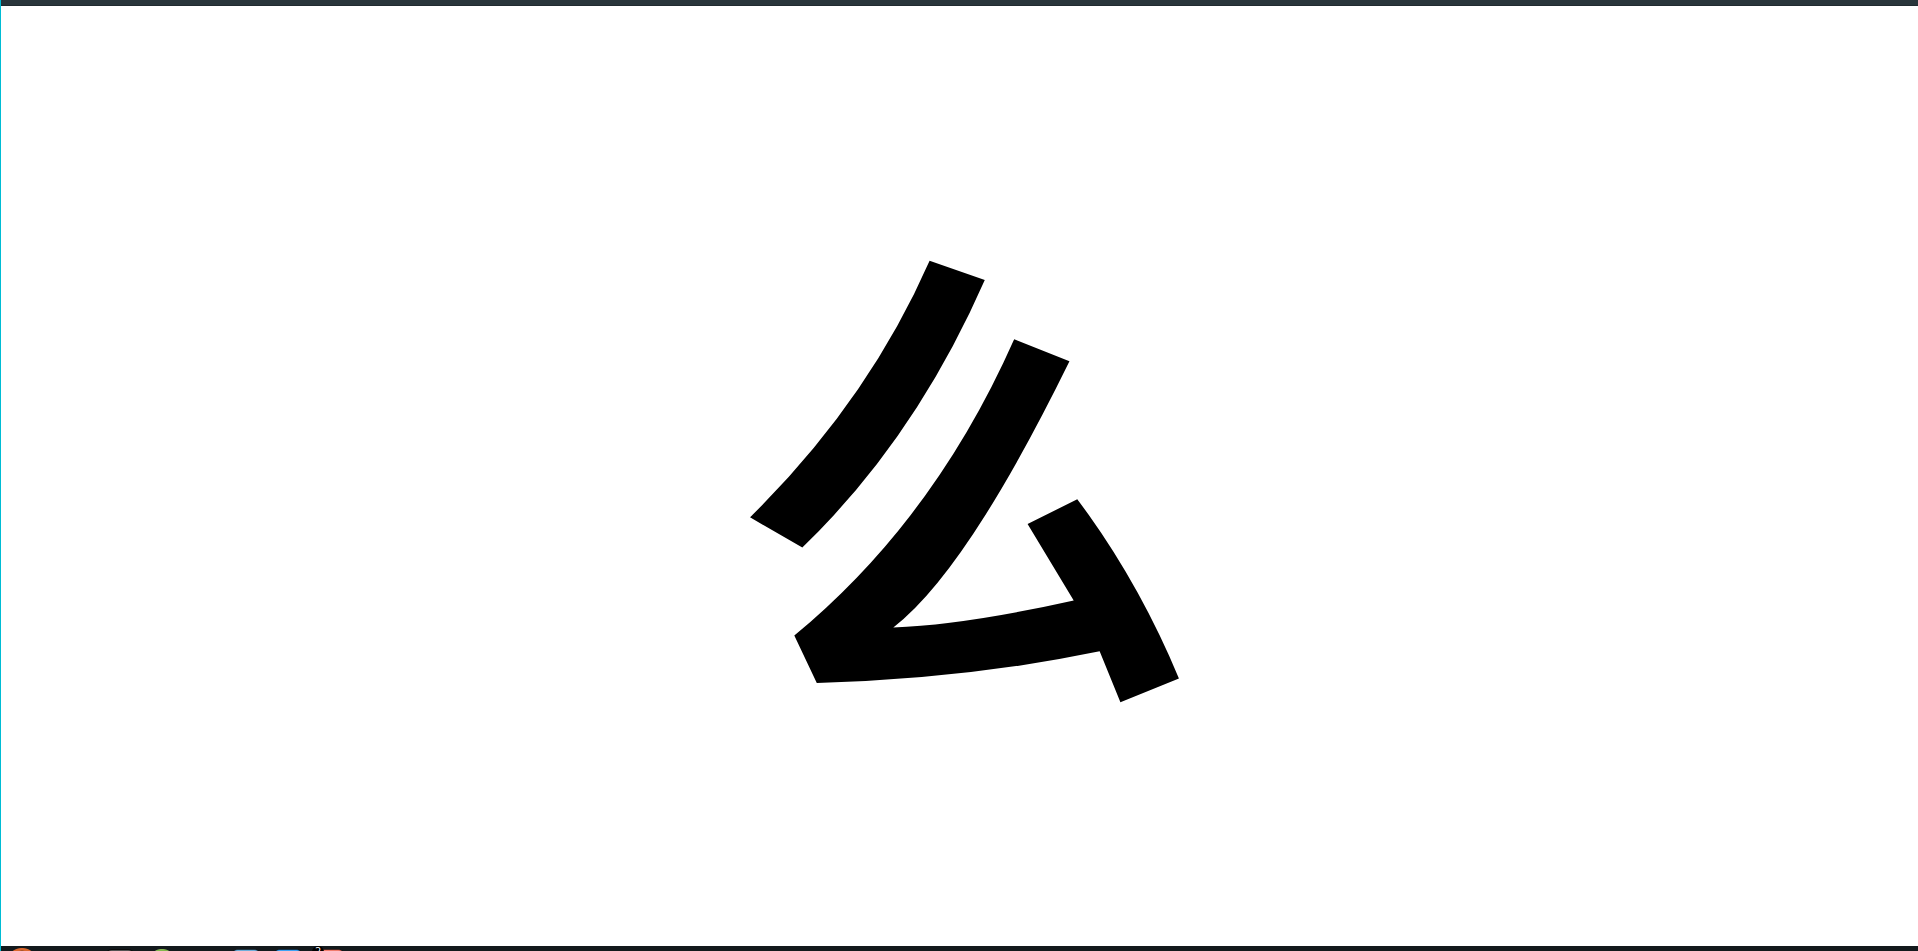
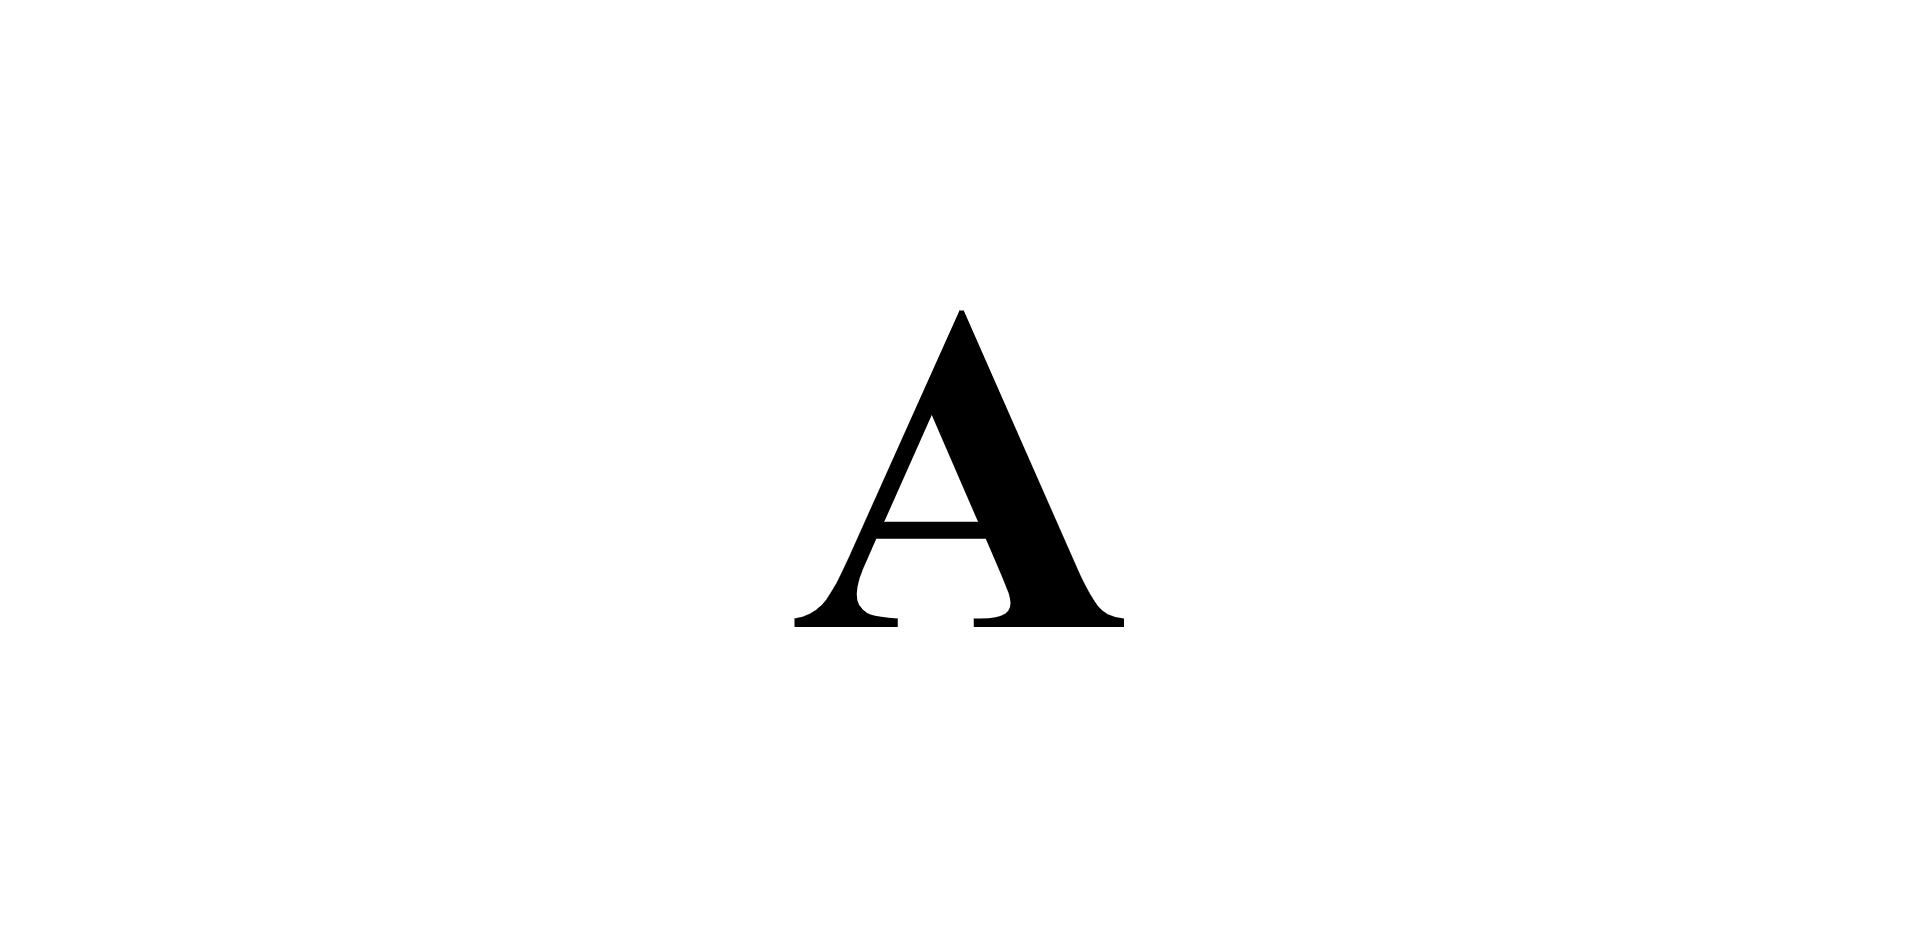
changed character to "a"

Changed region(s): [[0.3691, 0.2785, 0.6152, 0.7428], [0.0, 0.9904, 1.0, 1.0], [0.0, 0.0, 1.0, 0.0309]]

diff --git a/index.html b/index.html
@@ -5,7 +5,8 @@
     <meta charset="utf-8">
     <title></title>
     <style>
-        html, body {
+        html,
+        body {
             margin: 0;
             height: 100%;
         }
@@ -15,6 +16,7 @@
             align-items: center;
             justify-content: center;
         }
+
         h1 {
             font-size: 50vh;
             margin: 0;
@@ -23,7 +25,7 @@
 </head>
 
 <body>
-    <h1>么</h1>
+    <h1>A</h1>
 </body>
 
 </html>

diff --git a/README.md b/README.md
@@ -14,7 +14,7 @@
   <img width="533" height="300" src="https://raw.githubusercontent.com/joscha0/full-page-character/master/Screenshot.png">
 </p>
 <p align="center">
-  example with chinese character
-  <a target="_blank" href="http://么.com/"> http://么.com/</a>
+  example with the character "A"
+  <a target="_blank" href="http://a.960.eu/"> a.960.eu</a>
 
 
